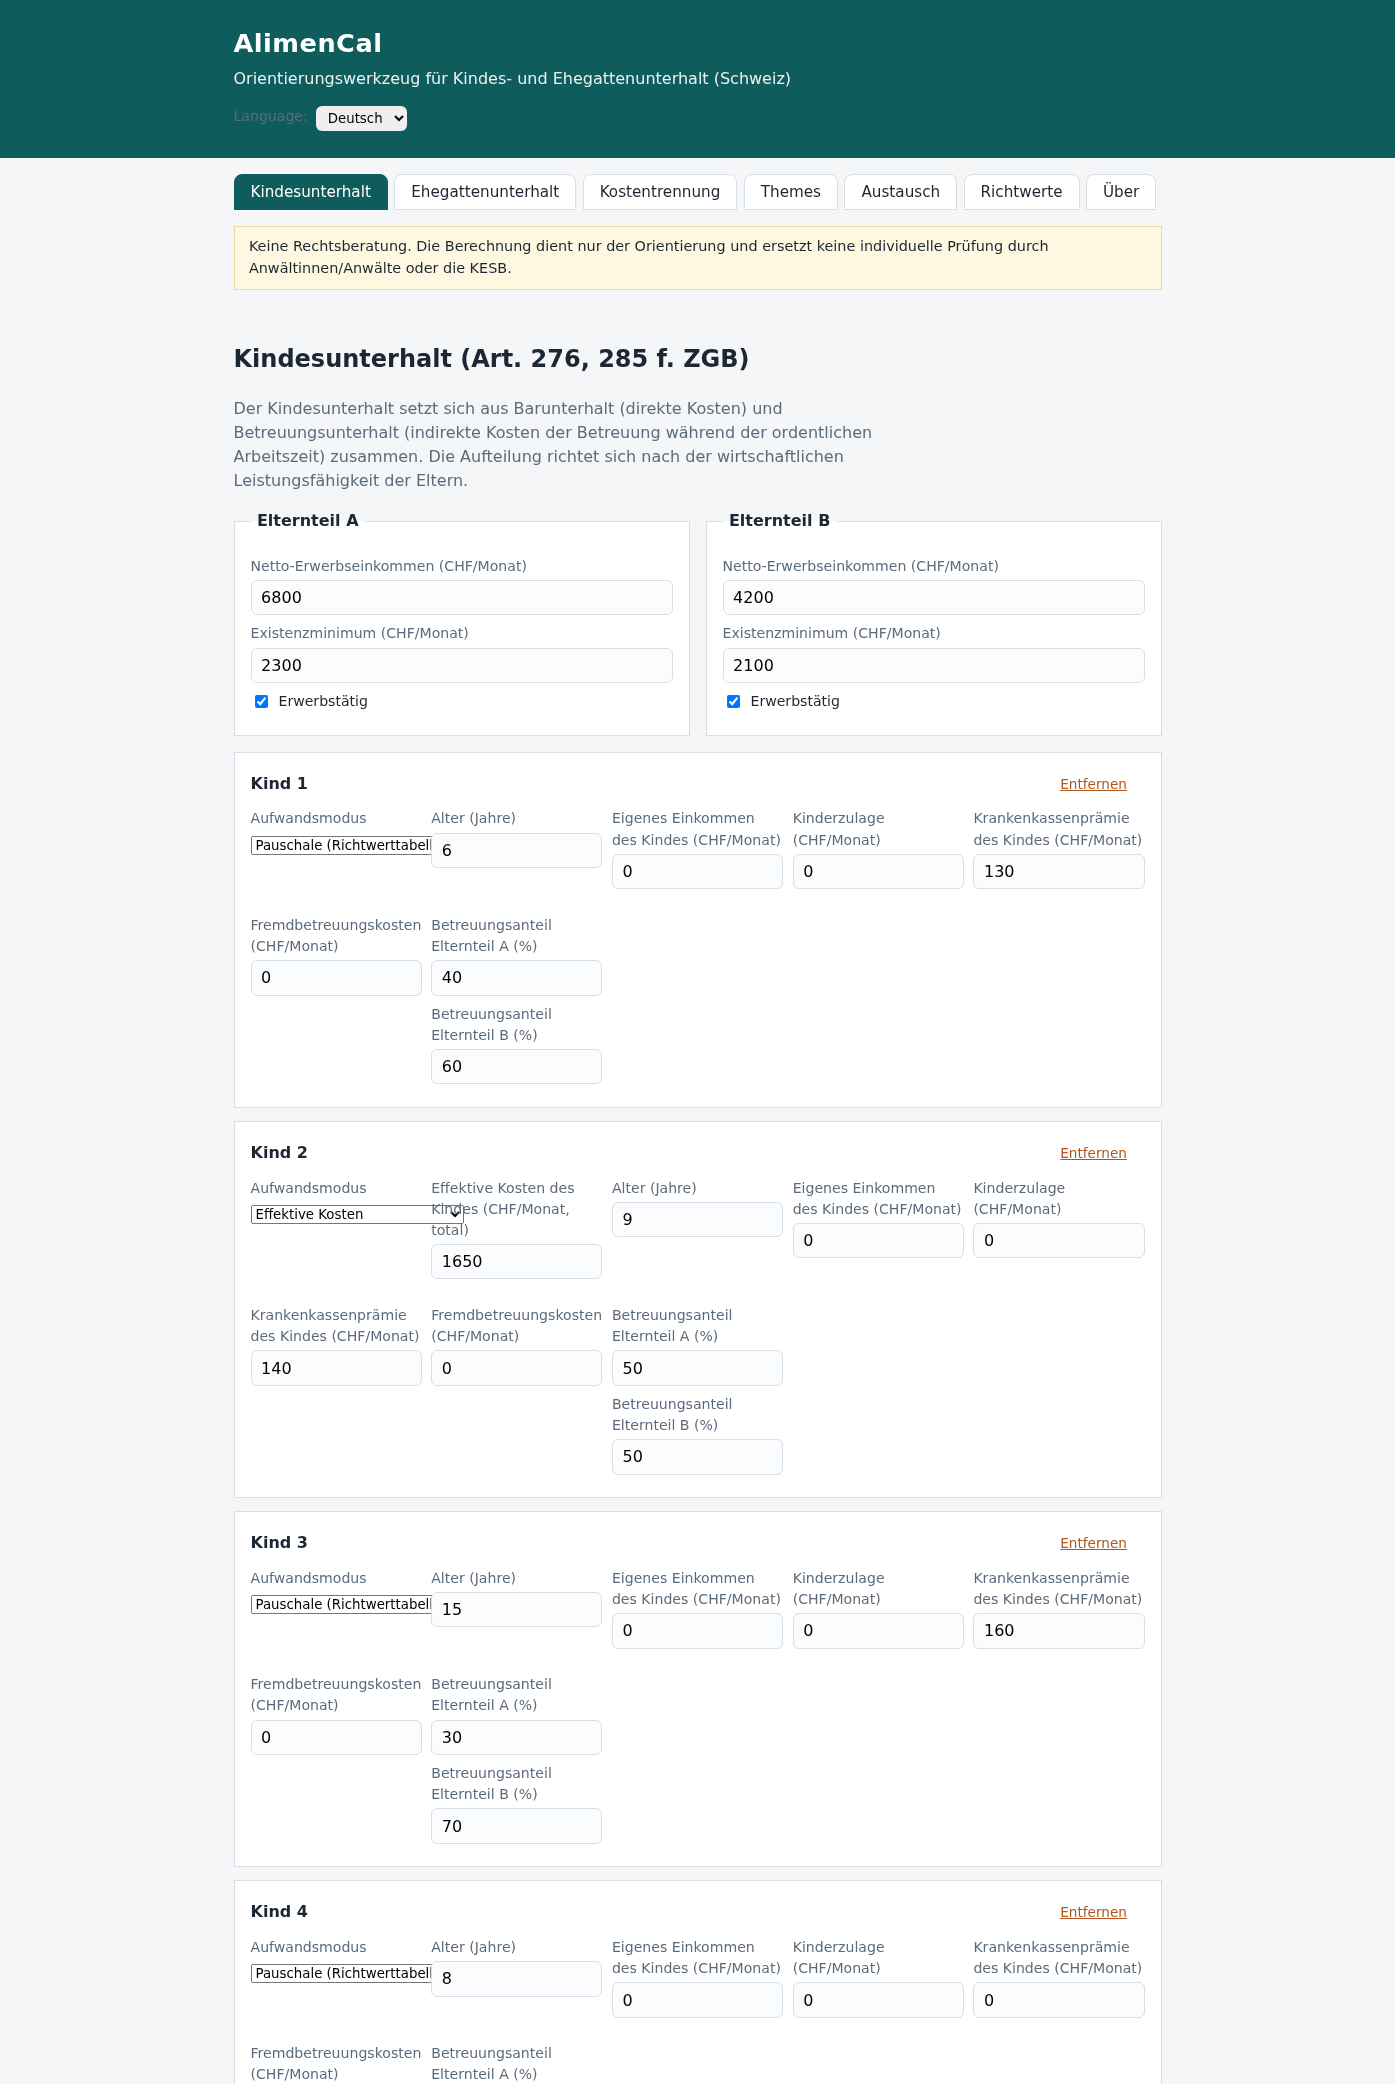
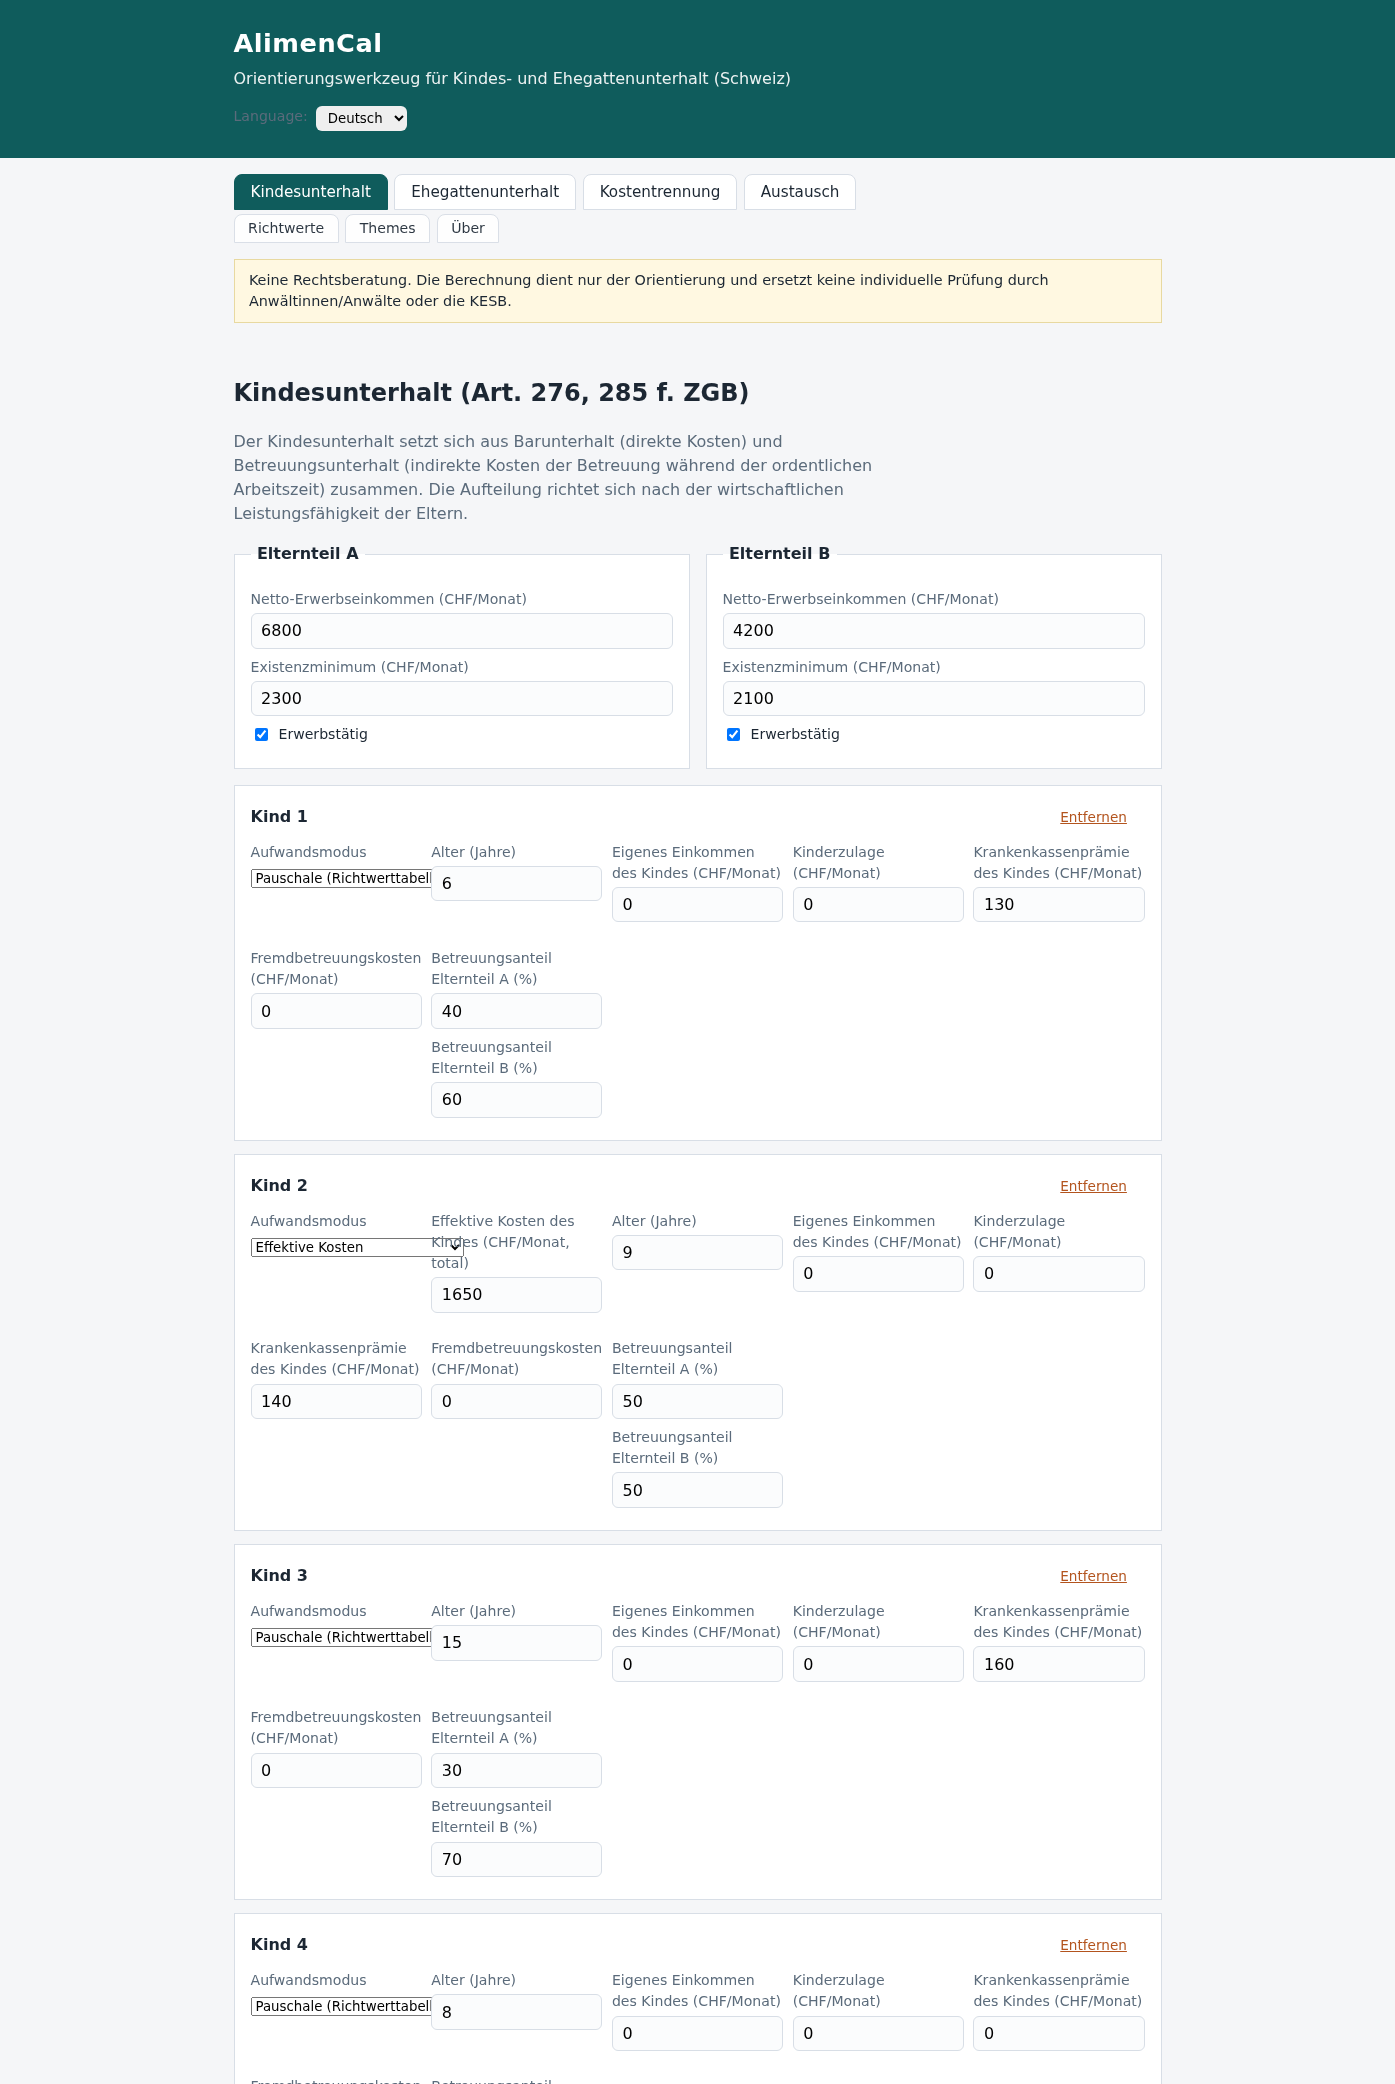
Menüstruktur umorganisiert: Funktionen (Kindesunterhalt, Ehegattenunterhalt, Kostentrennung, Austausch) von Einstellungen & Info (Richtwerte, Themes, Über) getrennt – zweite, kleinere Navigationsreihe; BENUTZERHANDBUCH (Tab-Übersicht zweigeteilt) und README (Struktur) nachgeführt; alle 8 Screenshots

diff --git a/index.html b/index.html
@@ -28,9 +28,11 @@
     <button class="tab active" data-tab="children" role="tab"></button>
     <button class="tab" data-tab="spousal" role="tab"></button>
     <button class="tab" data-tab="costsplit" role="tab"></button>
-    <button class="tab" data-tab="themes" role="tab"></button>
     <button class="tab" data-tab="share" role="tab"></button>
+  </nav>
+  <nav class="tabs wrap tabs-secondary" role="tablist">
     <button class="tab" data-tab="settings" role="tab"></button>
+    <button class="tab" data-tab="themes" role="tab"></button>
     <button class="tab" data-tab="about" role="tab"></button>
   </nav>
 

diff --git a/css/style.css b/css/style.css
@@ -57,6 +57,8 @@ header h1 { margin: 0; font-size: 1.6rem; letter-spacing: 0.5px; }
   margin-top: 1rem;
   flex-wrap: wrap;
 }
+.tabs-secondary { margin-top: 0.25rem; }
+.tabs-secondary .tab { font-size: 0.88rem; padding: 0.35rem 0.85rem; opacity: 0.92; }
 .tab {
   border: 1px solid var(--line);
   background: var(--card);

diff --git a/docs/BENUTZERHANDBUCH.md b/docs/BENUTZERHANDBUCH.md
@@ -22,14 +22,26 @@ nächsten Öffnen wiederhergestellt.
 
 ## Tabs im Überblick
 
+Die Navigation ist zweigeteilt: Die obere Reihe enthält die **Funktionen**
+(Berechnungen und Austausch), die darunterliegende Reihe die
+**Einstellungen und Informationen**.
+
+**Funktionen (obere Navigation):**
+
 | Tab | Zweck |
 |---|---|
 | Kindesunterhalt | Barunterhalt und Betreuungsunterhalt pro Kind berechnen |
 | Ehegattenunterhalt | Bedarf/Leistungsfähigkeit und allfälliger Beitrag (Art. 176 / Art. 125 ZGB) |
 | Kostentrennung | Laufende Kosten ab einem Stichtag separat abrechnen (Bankexport) |
-| Themes | Vordefinierte Designs wählen, Farben im Theme-Editor anpassen |
 | Austausch | Eigene Daten exportieren, Datei der anderen Partei importieren |
+
+**Einstellungen & Info (untere Navigation):**
+
+| Tab | Zweck |
+|---|---|
 | Richtwerte | Richtwerte einsehen, anpassen, speichern, exportieren/importieren, kantionale Presets laden |
+| Themes | Vordefinierte Designs wählen, Farben im Theme-Editor anpassen |
+| Über | Informationen zur App, Rechtsgrundlagen und Disclaimer |
 
 ## Tab «Kindesunterhalt»
 

diff --git a/README.md b/README.md
@@ -135,7 +135,7 @@ Ehegattenunterhalts sowie CSV-Parsing und Ausgleichslogik der Kostentrennung.
 ## Struktur
 
 ```
-index.html          UI (Tabs: Kindesunterhalt, Ehegattenunterhalt, Kostentrennung, Themes, Austausch, Richtwerte)
+index.html          UI (Navigation zweigeteilt: Funktionen = Kindesunterhalt, Ehegattenunterhalt, Kostentrennung, Austausch; Einstellungen & Info = Richtwerte, Themes, Über)
 css/style.css       Styles
 js/calculator.js    Berechnungskern (DOM-frei, auch in Node.js lauffähig)
 js/costsplit.js     Kostentrennung: CSV-Import, Zuordnung, Ausgleich (DOM-frei)
